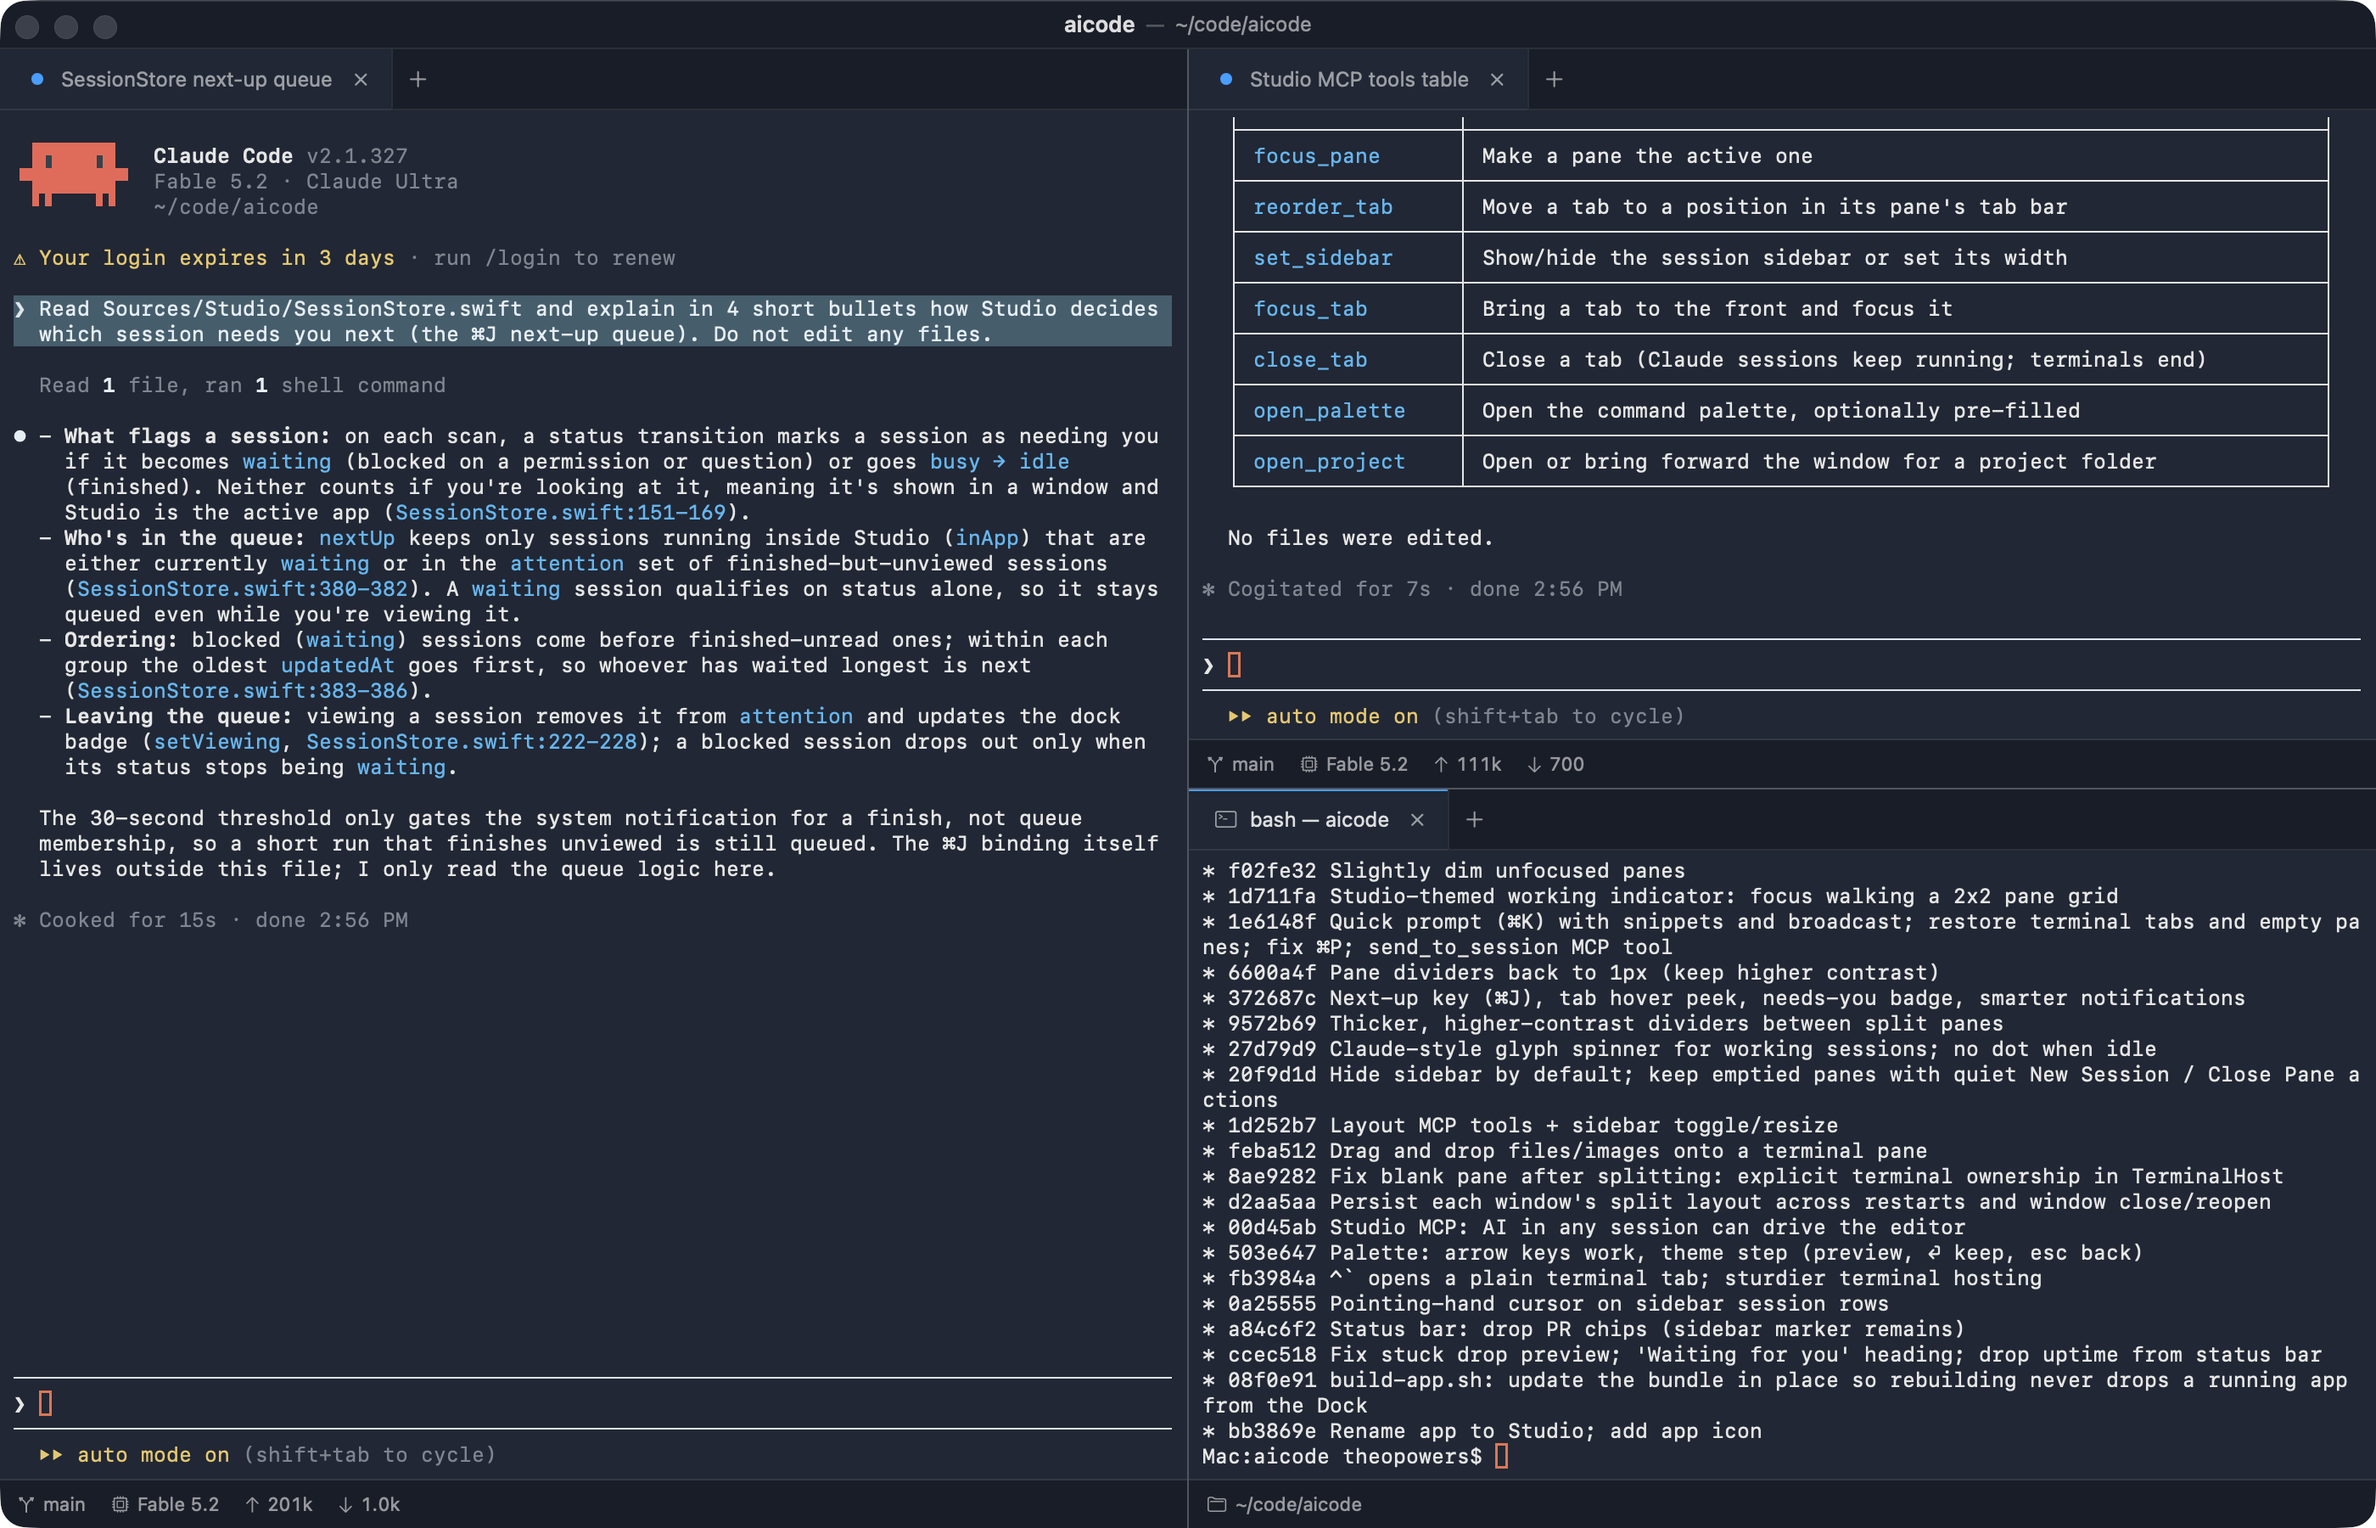
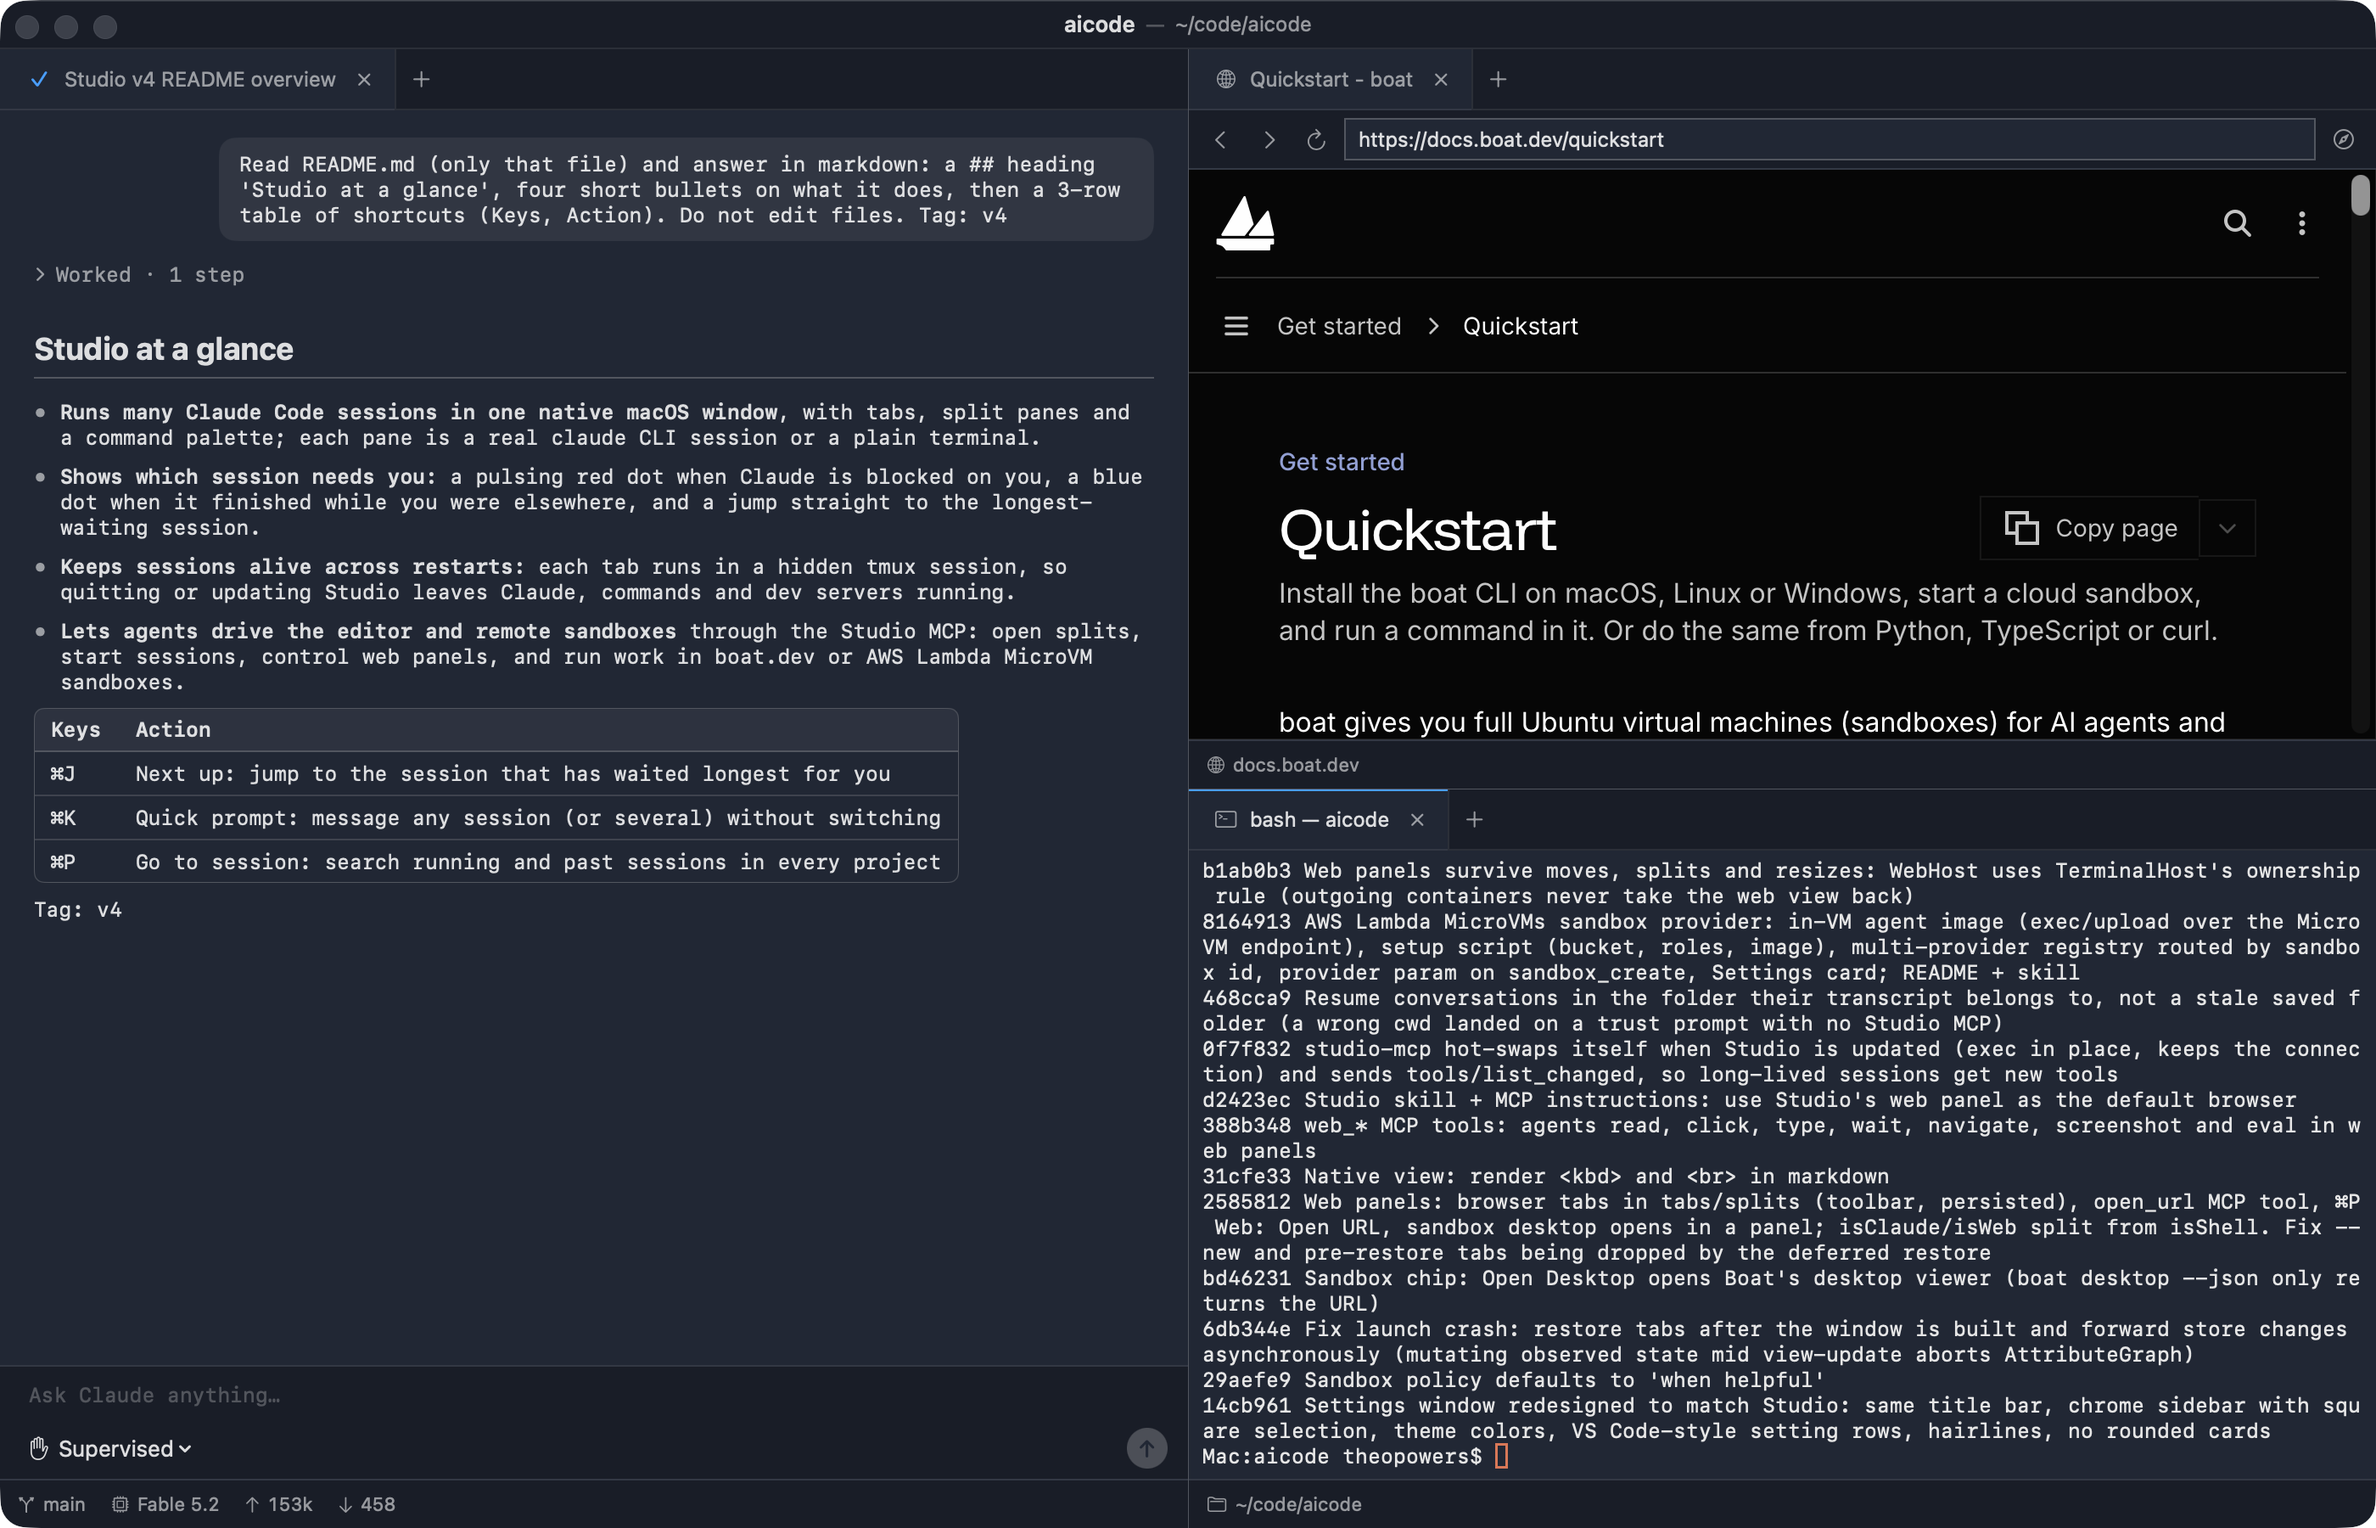
README: new screenshot (native view, web panel, terminal)

diff --git a/README.md b/README.md
@@ -16,7 +16,7 @@ Studio tells you which session needs you next, so you can keep six agents busy w
 
 [Features](#features) · [Install](#install) · [Shortcuts](#keyboard-shortcuts) · [Sandboxes](#sandboxes) · [Studio MCP](#studio-mcp) · [How it works](#how-it-works) · [Contributing](#contributing)
 
-<img src="docs/screenshot.png" alt="Studio: two Claude Code sessions side by side and a terminal, in split panes" width="900">
+<img src="docs/screenshot.png" alt="Studio: a Claude session in the native view, a web panel showing Boat's docs, and a terminal, in split panes" width="900">
 
 </div>
 
